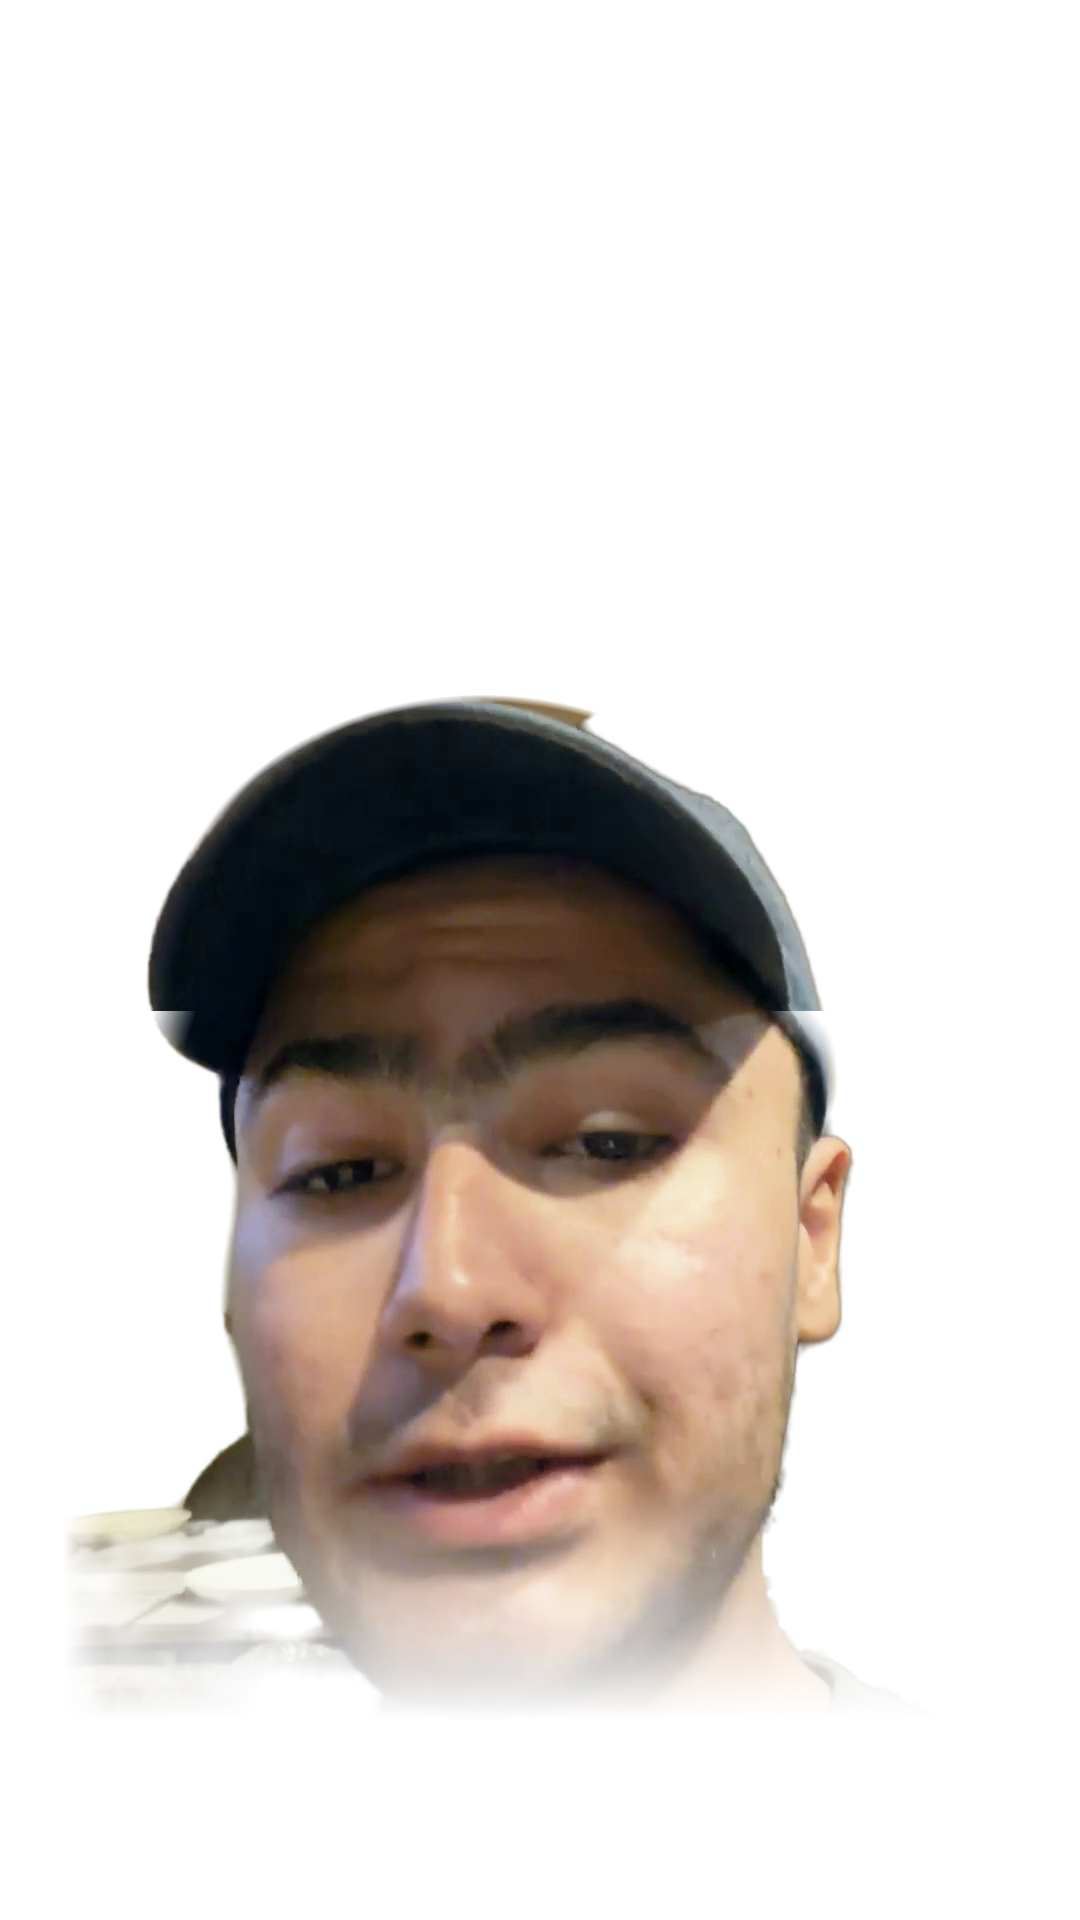
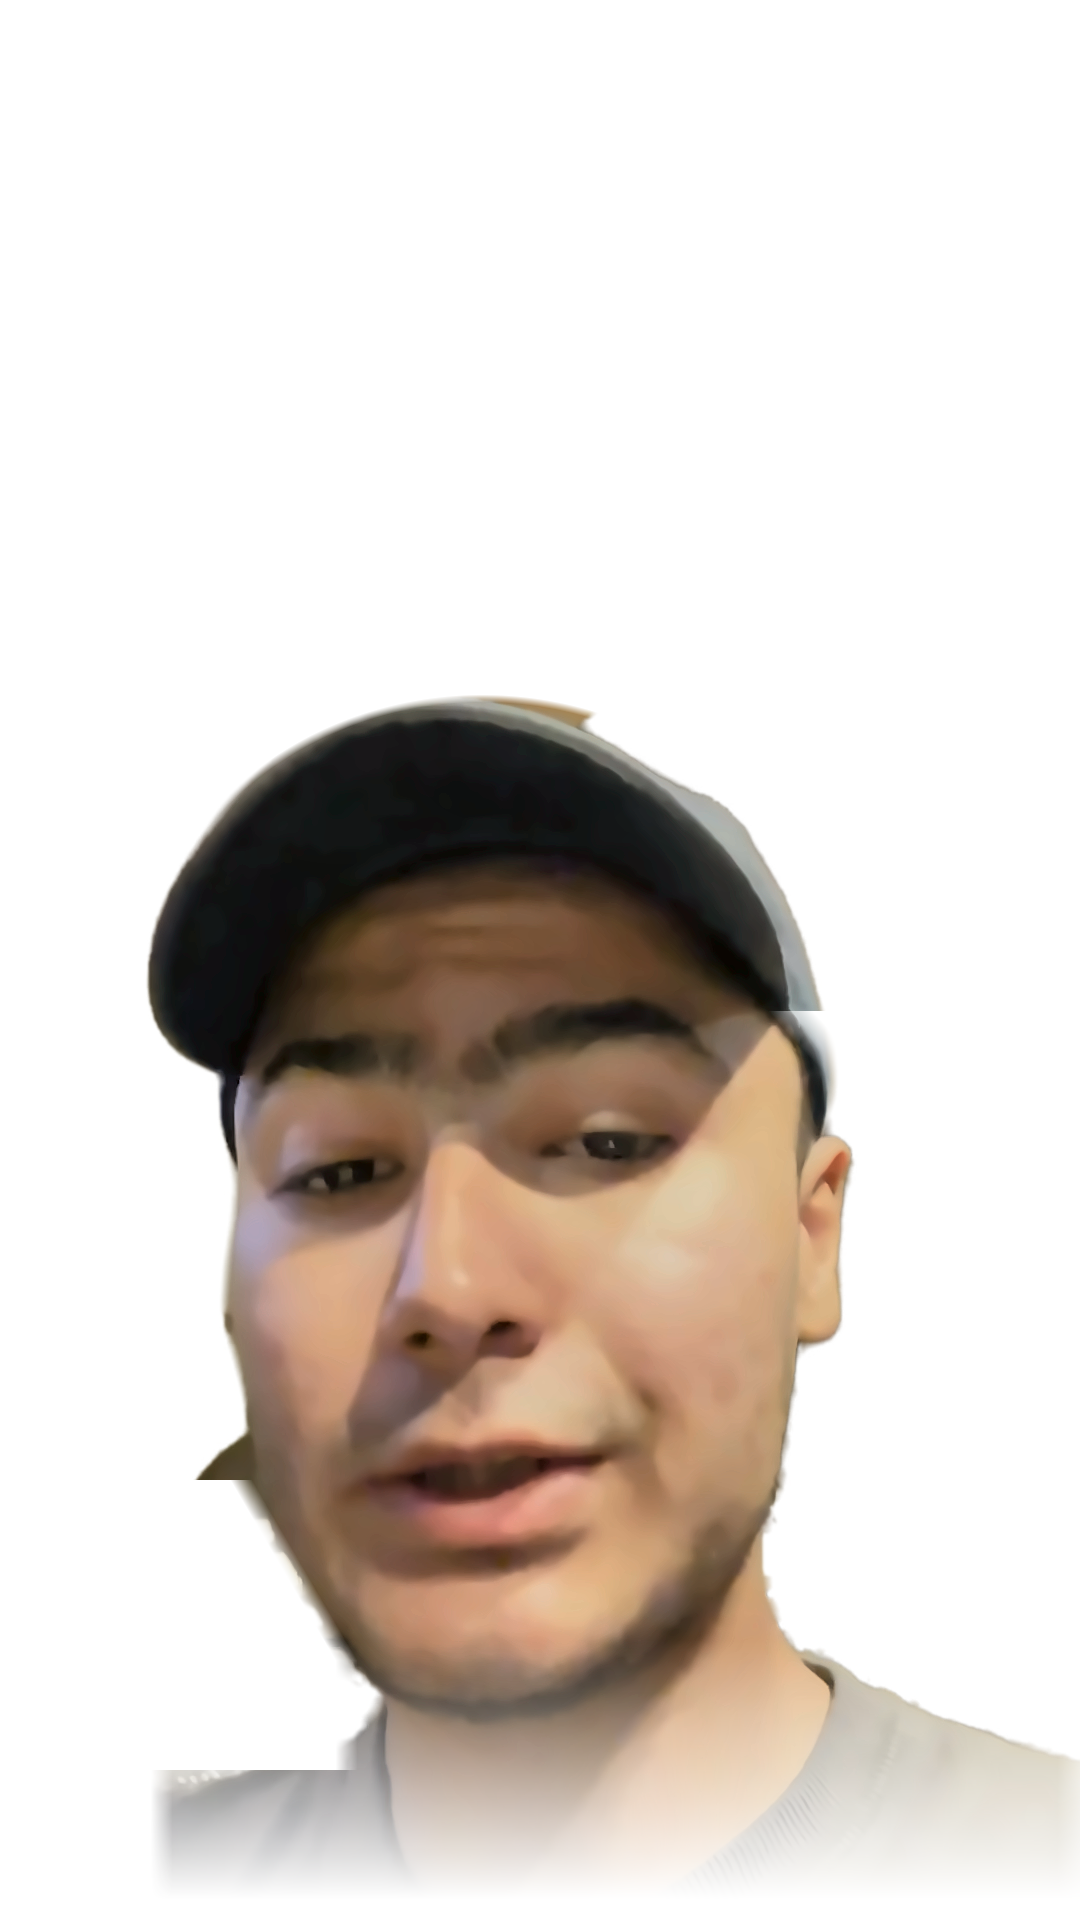
AnfaalNov cover: more room around the face, retouched cut-out following the jaw
Claude-Session: https://claude.ai/code/session_014Ja4wbTAT2uKsT8s5LCW9C

diff --git a/src/AnfaalNov/Cover.tsx b/src/AnfaalNov/Cover.tsx
@@ -9,8 +9,8 @@ import { MicroLabel, rnd } from "./kit";
 // Text stays inside the 3:4 grid crop (y 240–1680) and off the face.
 
 const FACE = { x: 470, y: 1256 }; // face centre in the 43.25 s frame
-const S = 0.82;
-const FACE_TO = 820;
+const S = 0.6;
+const FACE_TO = 860;
 const SUPPORT_Y = 1035;
 
 // stylised price path falling into 3800 (behind the person)
@@ -58,7 +58,7 @@ export const AnfaalNovCover: React.FC = () => (
       }}
     />
     {/* gold glow behind the head */}
-    <AbsoluteFill style={{ background: "radial-gradient(34% 22% at 50% 40%, rgba(217,182,110,.38) 0%, rgba(217,182,110,0) 100%)" }} />
+    <AbsoluteFill style={{ background: "radial-gradient(30% 18% at 50% 44%, rgba(217,182,110,.4) 0%, rgba(217,182,110,0) 100%)" }} />
 
     {/* falling chart onto 3800 */}
     <svg width={1080} height={1920} style={{ position: "absolute", inset: 0 }}>
@@ -79,7 +79,7 @@ export const AnfaalNovCover: React.FC = () => (
       <div
         style={{
           position: "absolute",
-          top: 150,
+          top: 255,
           fontFamily: F.display,
           fontSize: 400,
           lineHeight: 1.05,
@@ -108,7 +108,7 @@ export const AnfaalNovCover: React.FC = () => (
           width: 1080,
           height: 1920,
           filter:
-            "brightness(1.03) contrast(1.07) saturate(1.04) drop-shadow(0 0 22px rgba(217,182,110,.35)) drop-shadow(0 30px 50px rgba(0,0,0,.55))",
+            "brightness(1.02) contrast(1.03) drop-shadow(0 0 22px rgba(217,182,110,.35)) drop-shadow(0 30px 50px rgba(0,0,0,.55))",
         }}
       />
     </AbsoluteFill>
@@ -118,10 +118,10 @@ export const AnfaalNovCover: React.FC = () => (
       style={{
         position: "absolute",
         left: 0,
-        top: 900,
+        top: 930,
         width: 1080,
         height: 420,
-        background: `linear-gradient(90deg, ${C.ink} 0%, rgba(7,16,12,.85) 22%, rgba(7,16,12,.4) 34%, rgba(7,16,12,0) 46%)`,
+        background: `linear-gradient(90deg, ${C.ink} 0%, rgba(7,16,12,.9) 26%, rgba(7,16,12,.55) 38%, rgba(7,16,12,0) 50%)`,
         WebkitMaskImage: "linear-gradient(180deg, transparent 0%, black 35%)",
         maskImage: "linear-gradient(180deg, transparent 0%, black 35%)",
       }}
